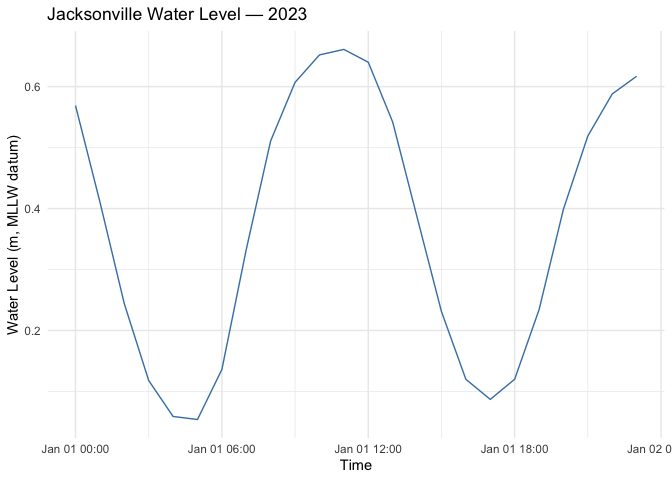
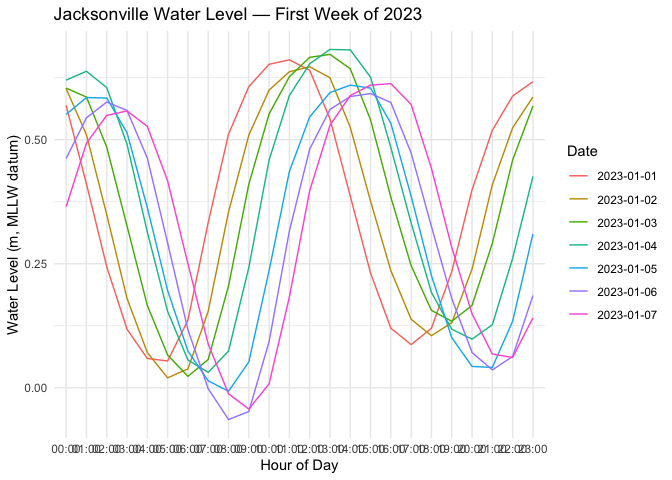
nice plot

diff --git a/README.md b/README.md
@@ -139,13 +139,38 @@ kable(show_data)
 ``` r
 fl_time <- as.POSIXct(data$Date.Time, tz = "UTC")
 fl <- data.frame(time = fl_time, elevation = as.numeric(data$Water.Level))
-# visualise first 24 hours of Jacksonville water level
-ggplot(fl[fl$time >= "2023-01-01 00:00:00" & fl$time <= "2023-01-01 23:59:59", ], aes(x = time, y = elevation)) +
-  geom_line(color = "steelblue") +
+
+# Plot a week of tide curves (first 7 days) on the same chart, color by day
+library(dplyr)
+```
+
+
+    Attaching package: 'dplyr'
+
+    The following objects are masked from 'package:stats':
+
+        filter, lag
+
+    The following objects are masked from 'package:base':
+
+        intersect, setdiff, setequal, union
+
+``` r
+library(lubridate)
+library(ggplot2)
+
+fl_week <- fl %>%
+  filter(time >= as.POSIXct("2023-01-01 00:00:00", tz = "UTC") &
+         time < as.POSIXct("2023-01-8 00:00:00", tz = "UTC")) %>%
+  mutate(day = as.Date(time))
+
+ggplot(fl_week, aes(x = format(time, "%H:%M"), y = elevation, color = factor(day), group = day)) +
+  geom_line() +
   labs(
-    title = "Jacksonville Water Level — 2023",
-    x = "Time",
-    y = "Water Level (m, MLLW datum)"
+    title = "Jacksonville Water Level — First Week of 2023",
+    x = "Hour of Day",
+    y = "Water Level (m, MLLW datum)",
+    color = "Date"
   ) +
   theme_minimal()
 ```
@@ -163,7 +188,7 @@ ggplot(fl, aes(x = time, y = elevation)) +
   theme_minimal()
 ```
 
-![](README_files/figure-commonmark/unnamed-chunk-3-2.png)
+![](README_files/figure-commonmark/unnamed-chunk-4-1.png)
 
 ``` r
 # Read CSV (expected columns: date, time, elevation)
@@ -193,7 +218,7 @@ ggplot(portsmouth_msl[portsmouth_msl$time >= "2023-01-01 00:00:00" & portsmouth_
   theme_minimal()
 ```
 
-![](README_files/figure-commonmark/unnamed-chunk-4-1.png)
+![](README_files/figure-commonmark/unnamed-chunk-5-1.png)
 
 ``` r
 ggplot(portsmouth_msl, aes(x = time, y = elevation)) +
@@ -206,4 +231,4 @@ ggplot(portsmouth_msl, aes(x = time, y = elevation)) +
   theme_minimal()
 ```
 
-![](README_files/figure-commonmark/unnamed-chunk-4-2.png)
+![](README_files/figure-commonmark/unnamed-chunk-5-2.png)
